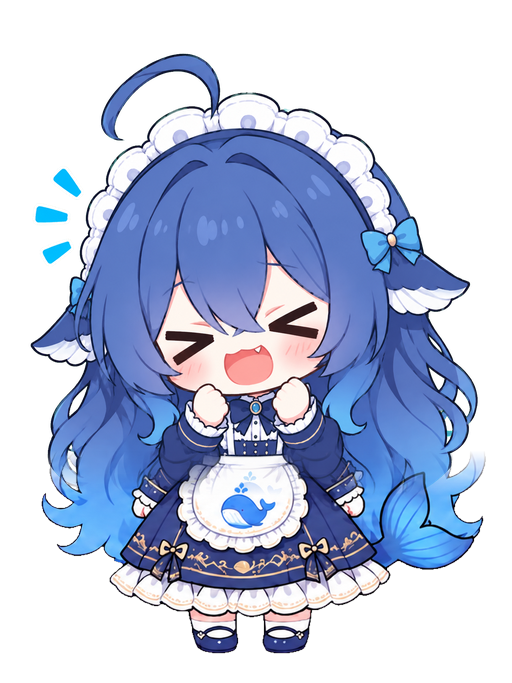
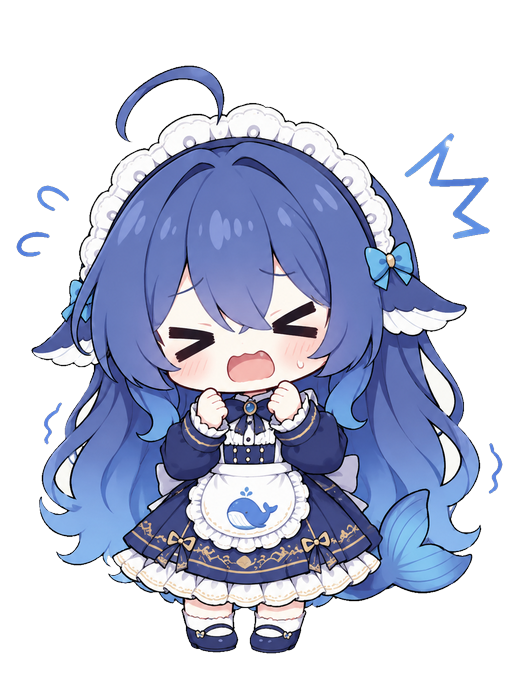
拖拽差分换成全身版抓狂立绘
用户补发了全身白底原图，走回 process_drag.py 那套对齐
（本体高 588、底边 y=653、中心 x=255.5），不再需要拼接。
抠像方式和绿幕版不同：米白底和白围裙/白蕾丝太接近，
不能按亮度切，改成从四边洪水填充（角色有闭合描边，不会漏）。
client.js: ASSET_VERSION 10 -> 11

diff --git a/client.js b/client.js
@@ -31,7 +31,7 @@ window.__ModuleLoader__.load({
 
 		const BASE = "/dsh-pet/sprite/";
 		/* ⚠ 换了素材必须 +1，否则浏览器会拿缓存里的旧图 */
-		const ASSET_VERSION = 10;
+		const ASSET_VERSION = 11;
 		const spriteUrl = (id) => BASE + id + ".png?v=" + ASSET_VERSION;
 		const MIND_URL = "/dsh-pet/__mind";
 		const MIND_POLL_MS = 1000;

diff --git a/README.md b/README.md
@@ -296,7 +296,9 @@ python tools/make_sheet.py    # 重新生成上面那张表情总览图（需要
   气泡 CSS，生成可以直接双击打开的 `bubble-preview.html`；改完样式重跑一次即可）、
   `zone_map.js`（**分区覆盖图**：从 `client.js` 现抠 `ZONES` 表，把每个分区框画到立绘上存成
   `zone-map.png`；改完分区边界跑一次，别靠脑补坐标）、`make_sheet.py`（README 那张表情总览图）
-- **立绘生产**（绿幕切图那套，**不在本仓库**）：`process_green_grid.py`、`process_drag.py`、
+- **立绘生产**（绿幕切图那套，**不在本仓库**）：`process_green_grid.py`、`process_drag.py`（绿幕源）、
+  `process_drag_fullbody.py`（**米白底源**：背景和角色身上的白围裙/白蕾丝太接近，不能按亮度切，
+  只能从四边洪水填充；角色有闭合描边所以不会漏进身体里）、
   `measure_scale.py`、`fix_ahoge.py`（呆毛内圈去白块，见踩坑 #21）
 
 
@@ -862,10 +864,6 @@ Copy-Item -LiteralPath "$prof\package.json.bak-20261009-230801" -Destination "$p
   宿主没有暴露任何 window/Electron 能力，所以"爬到桌面上"做不到。
 - 哈欠 / 揉眼睛 / 伸懒腰目前是 CSS 拉伸近似，不是真动作帧。
 - 13 张素材共约 4.9MB，首次加载略重（之后有版本号缓存）。
-- **`drag.png` 是拼出来的**：新素材只画到大腿根（没有腿），所以按"脸对齐"缩放后
-  取它的上半身，接在旧 `drag` 的**下半身**上，在裙摆处做 45px 的软过渡
-  （`process_drag_composite.py`）。桌面 190px 真尺寸下分不出接缝，
-  放大 3 倍能看到袖口附近有一点重影。
 - 素材改过三次（两次换 `drag` 差分、一次抠呆毛内圈白块）。要退回旧图：直接覆盖 `assets/`，
   再把 `client.js` 的 `ASSET_VERSION` 加 1（**不加版本号，浏览器不会重新取图**）。
 
